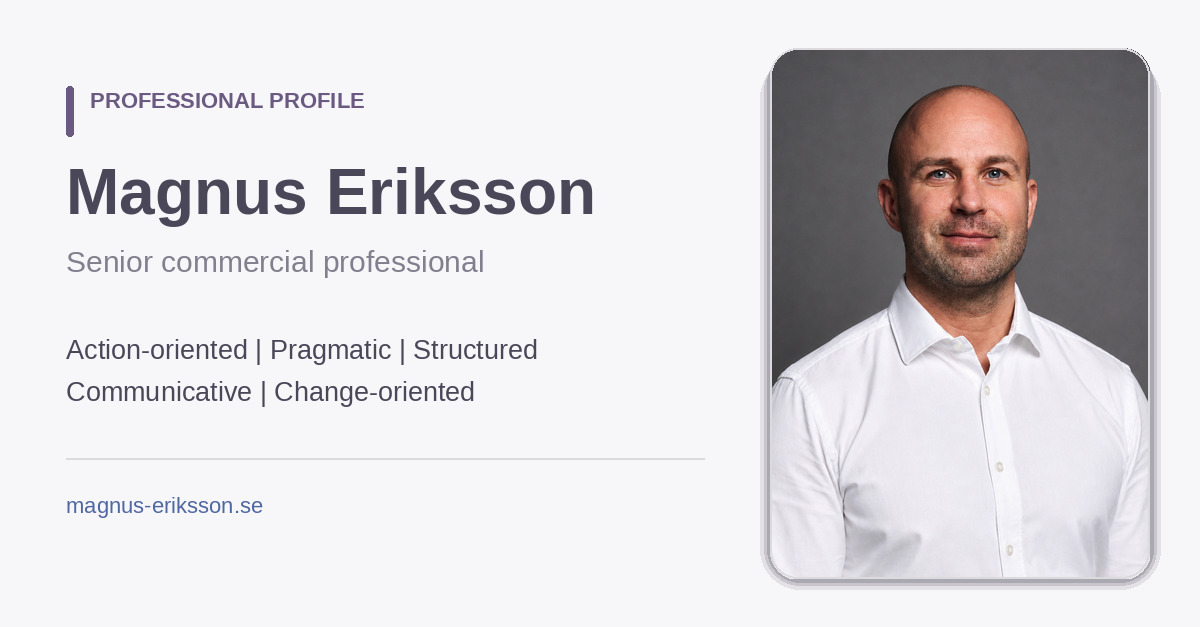
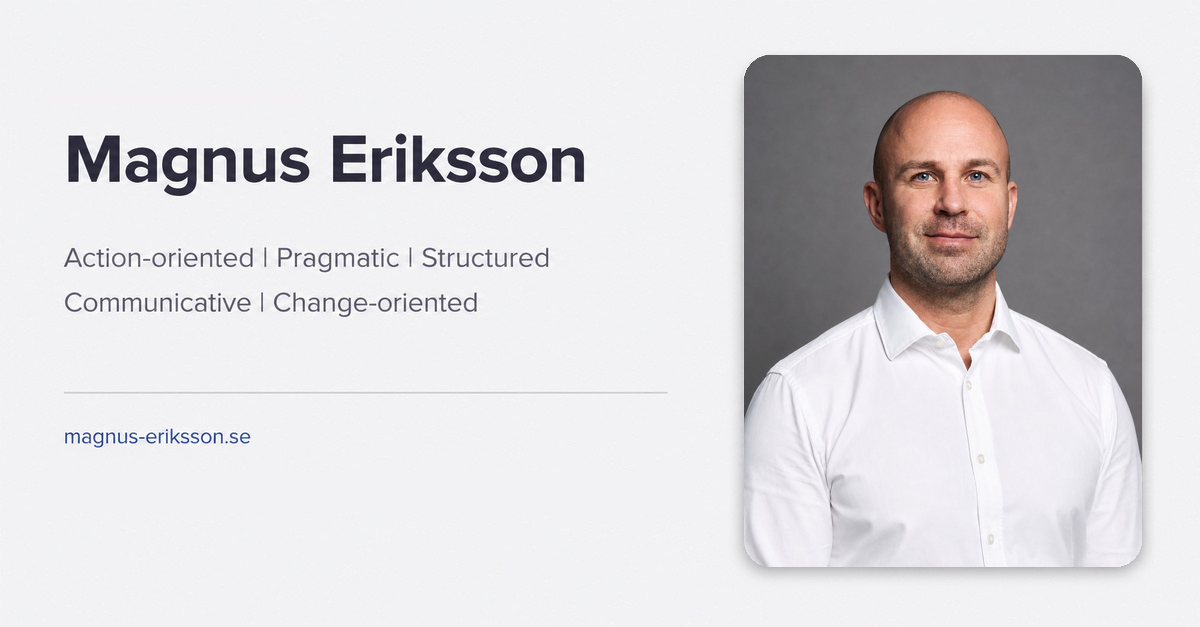
Updated opengraph-image.jpg

diff --git a/components/desktop/DesktopHeader.tsx b/components/desktop/DesktopHeader.tsx
@@ -8,6 +8,7 @@ import {
   DESKTOP_HEADER_HEIGHT_PX,
   DESKTOP_HEADER_LANGUAGE_FLAG_BORDER_WIDTH_PX,
   DESKTOP_HEADER_LANGUAGE_FLAG_HEIGHT_PX,
+  DESKTOP_HEADER_LANGUAGE_FLAG_INACTIVE_OPACITY,
   DESKTOP_HEADER_LANGUAGE_FLAGS_GAP_PX,
   DESKTOP_HEADER_LANGUAGE_FLAG_OFFSET_X_PX,
   DESKTOP_HEADER_LANGUAGE_FLAG_OFFSET_Y_PX,
@@ -246,6 +247,10 @@ export default function DesktopHeader({
                           border: "none",
                           background: "transparent",
                           padding: 0,
+                          opacity:
+                            language === "sv"
+                              ? 1
+                              : DESKTOP_HEADER_LANGUAGE_FLAG_INACTIVE_OPACITY,
                         }}
                       >
                         <img
@@ -282,6 +287,10 @@ export default function DesktopHeader({
                           border: "none",
                           background: "transparent",
                           padding: 0,
+                          opacity:
+                            language === "en"
+                              ? 1
+                              : DESKTOP_HEADER_LANGUAGE_FLAG_INACTIVE_OPACITY,
                         }}
                       >
                         <img

diff --git a/lib/config/desktop.ts b/lib/config/desktop.ts
@@ -38,8 +38,9 @@ export const DESKTOP_HEADER_NAV_UNDERLINE_HEIGHT_PX = 2;
 export const DESKTOP_HEADER_NAV_UNDERLINE_OFFSET_TOP_PX = 6;
 export const DESKTOP_HEADER_NAV_UNDERLINE_RADIUS_PX = 9999;
 
-export const DESKTOP_HEADER_LANGUAGE_FLAG_HEIGHT_PX = 11;
+export const DESKTOP_HEADER_LANGUAGE_FLAG_HEIGHT_PX = 12;
 export const DESKTOP_HEADER_LANGUAGE_FLAG_BORDER_WIDTH_PX = 0.5;
+export const DESKTOP_HEADER_LANGUAGE_FLAG_INACTIVE_OPACITY = 0.7;
 export const DESKTOP_HEADER_LANGUAGE_FLAGS_GAP_PX = 12;
 export const DESKTOP_HEADER_LANGUAGE_FLAG_OFFSET_X_PX = 0;
 export const DESKTOP_HEADER_LANGUAGE_FLAG_OFFSET_Y_PX = -20;

diff --git a/app/layout.tsx b/app/layout.tsx
@@ -17,7 +17,7 @@ export const metadata: Metadata = {
     canonical: "/",
   },
   openGraph: {
-    title: "Magnus Eriksson – Professional Profile",
+    title: "Magnus Eriksson",
     description:
       "Professional profile for Magnus Eriksson, covering experience, skills, education and contact information.",
     url: "/",
@@ -29,7 +29,7 @@ export const metadata: Metadata = {
         url: "/opengraph-image.jpg",
         width: 1200,
         height: 627,
-        alt: "Magnus Eriksson – Professional Profile",
+        alt: "Magnus Eriksson",
       },
     ],
   },
